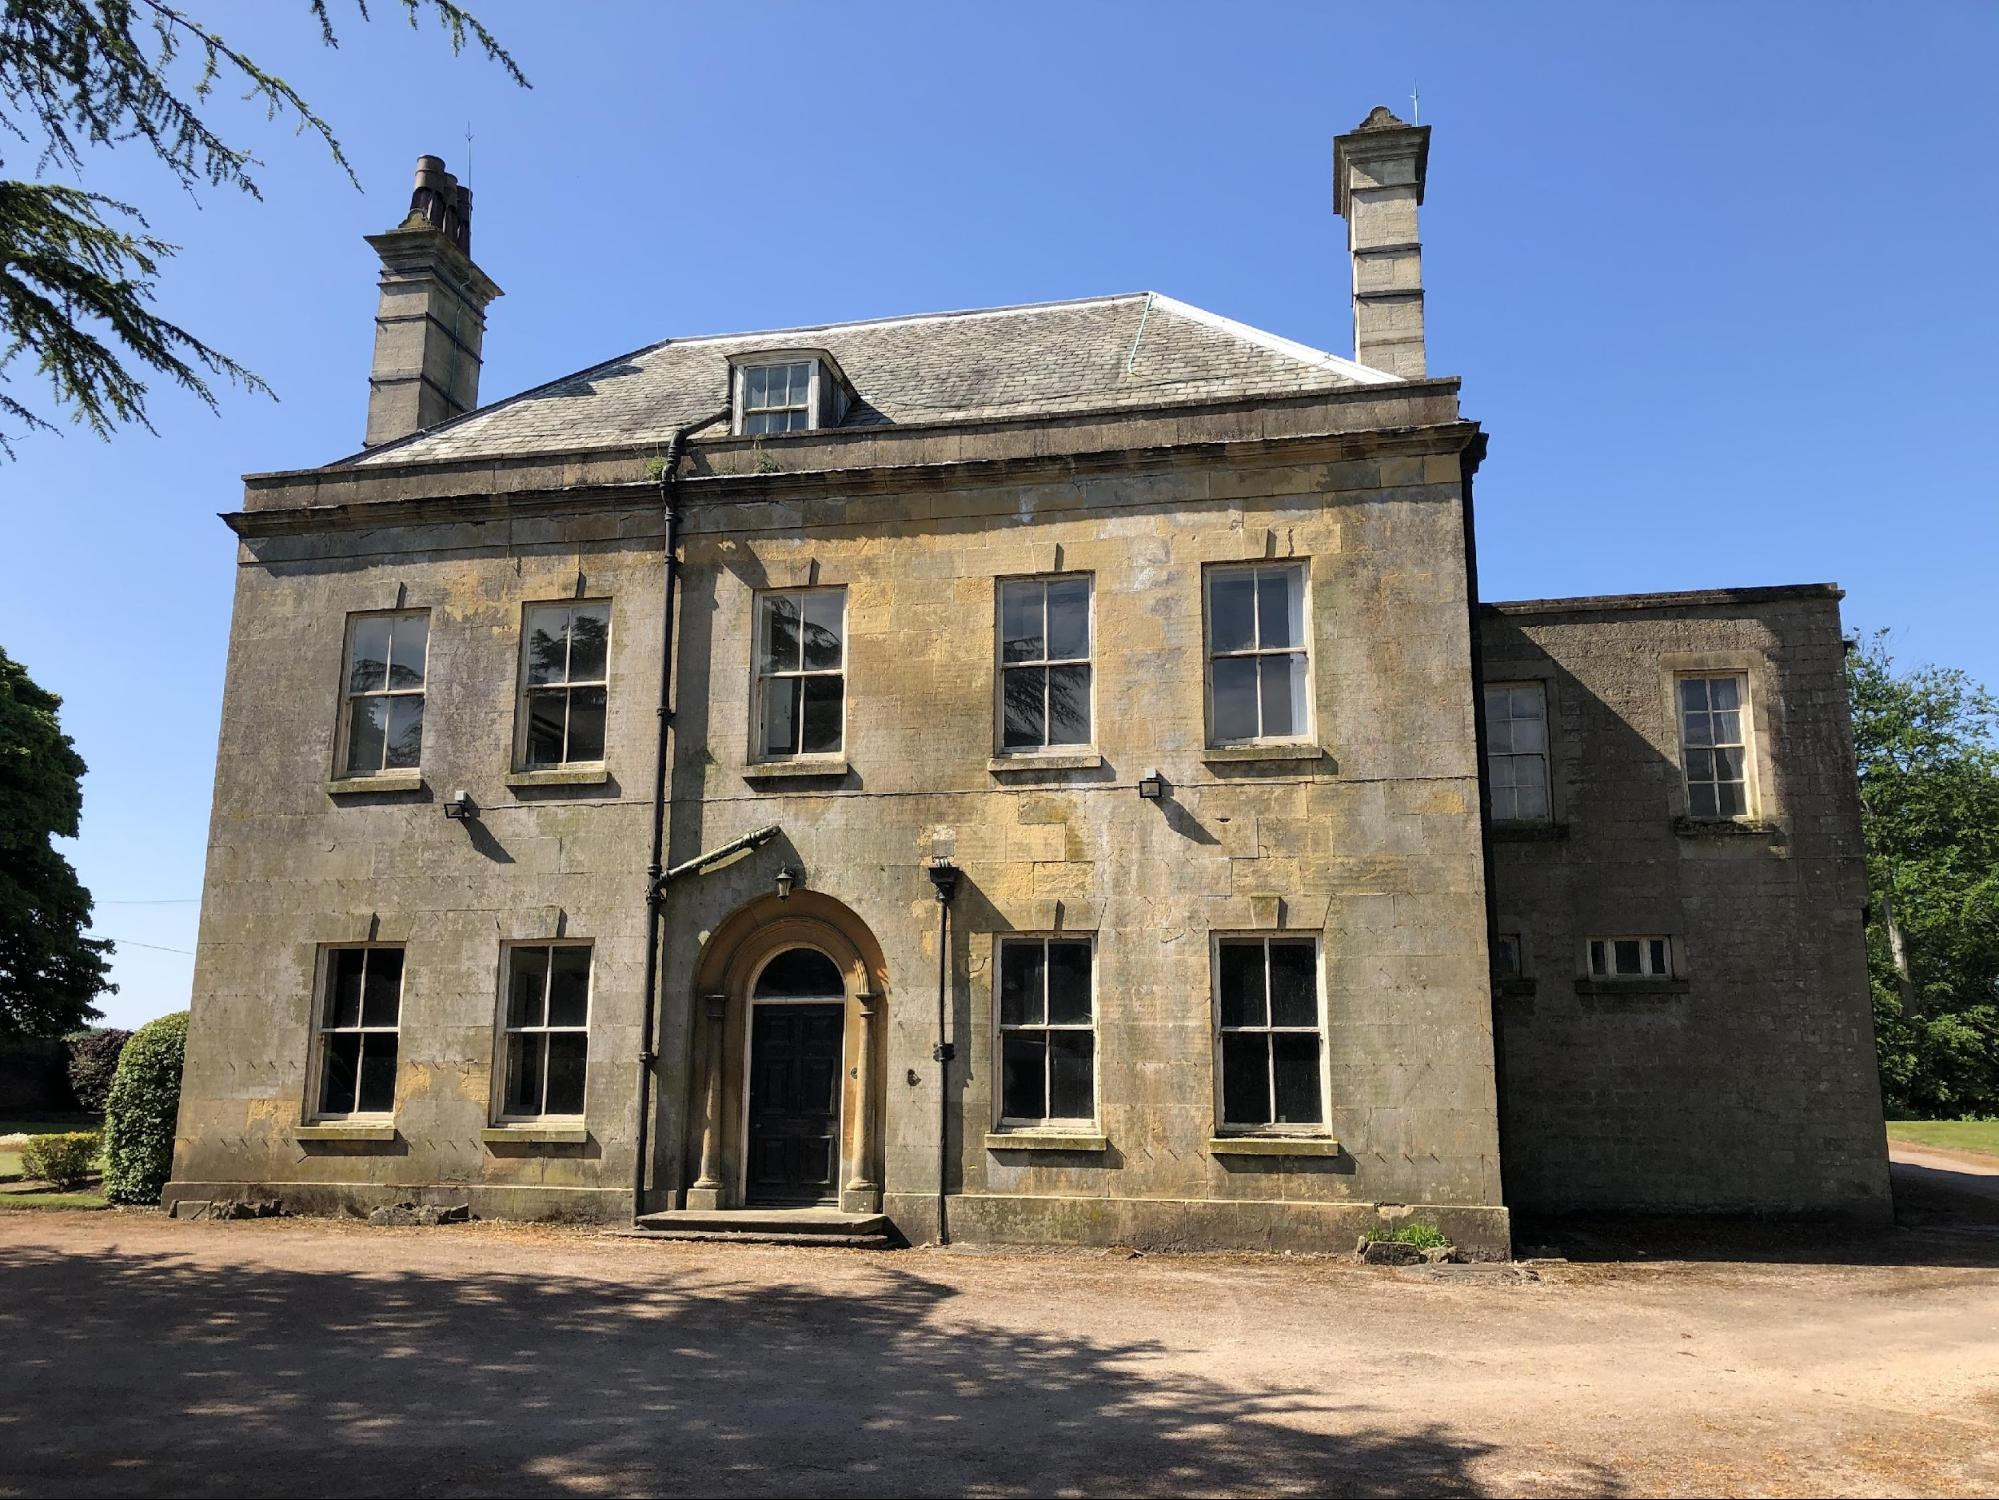
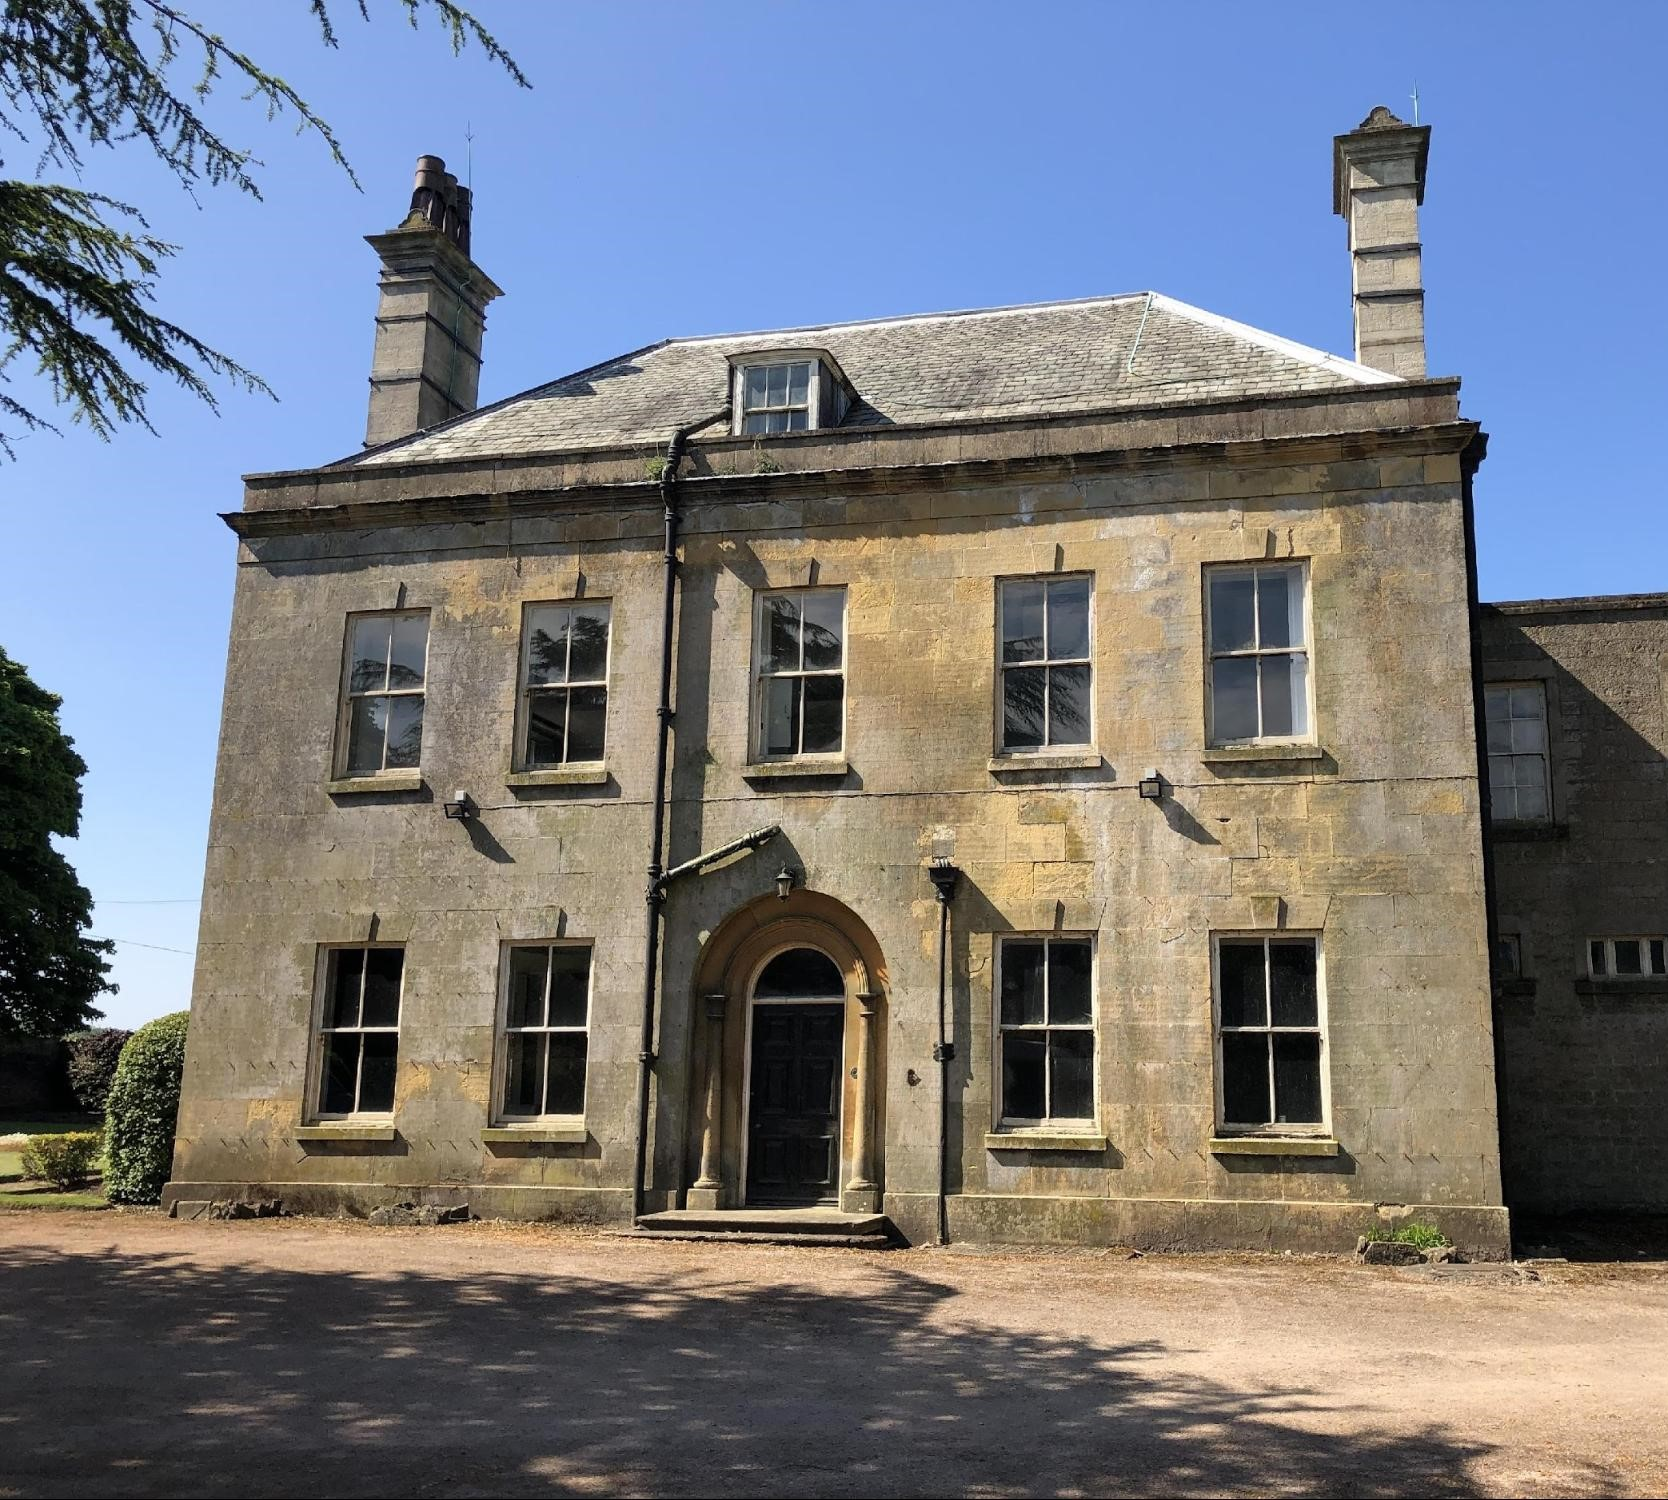
Content added for building surveying projects

diff --git a/src/pages/Projects/BuildingSurveying.vue b/src/pages/Projects/BuildingSurveying.vue
@@ -18,6 +18,35 @@ export default {
 
   data() {
     return {
+        CuckneyHouse: {
+            title: "CUCKNEY HOUSE",
+            image: Project1,
+            description: "Condition Survey - Cuckney House, Langwith Road, Norton involving the conversion of the existing Grade II listed property into a luxury holiday let.\n\nSurvey - A photographic and written survey was required to identify on annotated drawings the condition of the internal and external components of the building for the Architect's to prepare an application for listed building consent and identify detailed costs for the project."
+        },
+
+        ResidentialLeeds: {
+            title: "RESIDENTIAL PROPERTY LEEDS",
+            image: Project2,
+            description: "Building Survey - Survey of residential property in Leeds in connection with a private purchase.\n\nSurvey - A photographic and written survey was required in order to identify any significant defects which might affect purchase of the property. Typical defects include failed seals to double glazed window, cracking to ceiling due to overloaded storage in the attic and high ground levels. No significant defects.",
+        },
+
+        DenholmeChurch: {
+            title: "DENHOLME SHARED CHURCH",
+            image: Project3,
+            description: "Building Survey - Quinquennial inspection of Denholme Shared Church.\n\nSurvey - The objective of the survey was to ensure the early detection of decoration and defects so that prompt action could be taken and any unnecessary expenses avoided. The property is an asset to the Church and it is important that all property is maintained in a good state of repair even if disposal may need to be contemplated in the long term.",
+        },
+
+        Eureka: {
+            title: "EUREKA!",
+            image: Project4,
+            description: "Planned preventative maintenance of museum, commercial and industrial property at Eureka! Halifax.\n\nSurvey - Various condition surveys have been undertaken on the Childrens Museum, 1855 Office Building, Car Parking areas, Great Northern Shed, Footbridge and Working Horse Museum in order to understand and plan for essential maintenance and repair costs for the successful operation of the museum and its assets."
+        },
+
+        AngelInn: {
+            title: "ANGEL INN",
+            image: Project5,
+            description: "Condition Survey in connection with the acquisition of the Angel Inn, York where the purchaser was planning a scheme for major refurbishment.\n\nSurvey - The property inspection raised issues associated with the condition and completeness of the services, how it has been extended and altered and a lack of maintenance, repair and decoration to the structure and fabric of the building over the last few years."
+        }
 
     }
   },
@@ -28,11 +57,15 @@ export default {
     <LogoNavBar></LogoNavBar>
     
     <h1>
-        DILAPIDATION PROJECTS
+        BUILDING SURVEYING PROJECTS
     </h1>
 
     <div class="project-type-container">
-
+        <ExpandableProject :project-name="CuckneyHouse.title" :image="CuckneyHouse.image" :content="CuckneyHouse.description"/>
+        <ExpandableProject :project-name="ResidentialLeeds.title" :image="ResidentialLeeds.image" :content="ResidentialLeeds.description"/>
+        <ExpandableProject :project-name="DenholmeChurch.title" :image="DenholmeChurch.image" :content="DenholmeChurch.description"/>
+        <ExpandableProject :project-name="Eureka.title" :image="Eureka.image" :content="Eureka.description"/>
+        <ExpandableProject :project-name="AngelInn.title" :image="AngelInn.image" :content="AngelInn.description"/>
     </div>
 
     <Footer></Footer>

diff --git a/src/pages/Projects.vue b/src/pages/Projects.vue
@@ -5,7 +5,7 @@ import ProjectType from '../components/Projects/ProjectType.vue';
 
 import PartyWallImage from '../assets/images/services/building-surveying/party-wall/banner.jpg';
 import DilapidationsImage from '../assets/images/projects/dilapidations/image2.jpg';
-import BuildingSurveyingImage from '../assets/images/projects/building-surveying/image1.jpg'
+import BuildingSurveyingImage from '../assets/images/projects/building-surveying/image4.jpg'
 
 export default {
   components: {

diff --git a/src/components/Projects/ExpandableProject.vue b/src/components/Projects/ExpandableProject.vue
@@ -92,7 +92,7 @@
 .text-container h1{
     color: var(--psc-white);
     margin: 0;
-    font-size: 1.8vmax;
+    font-size: 1.5vw;
     position: absolute;
     top: 50%;
     left: 50%;
